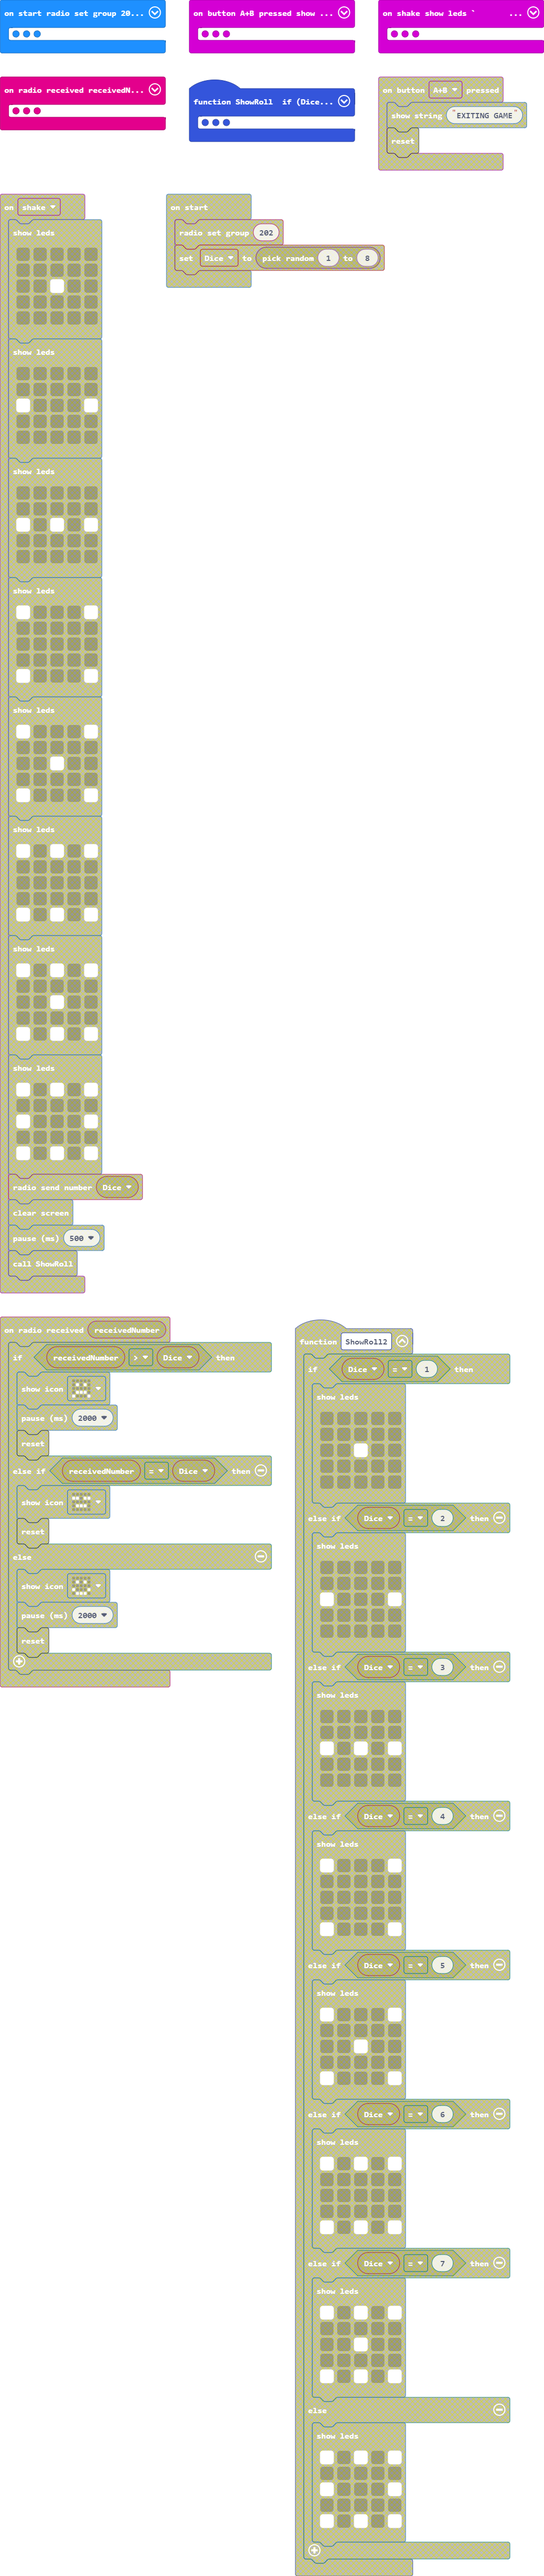
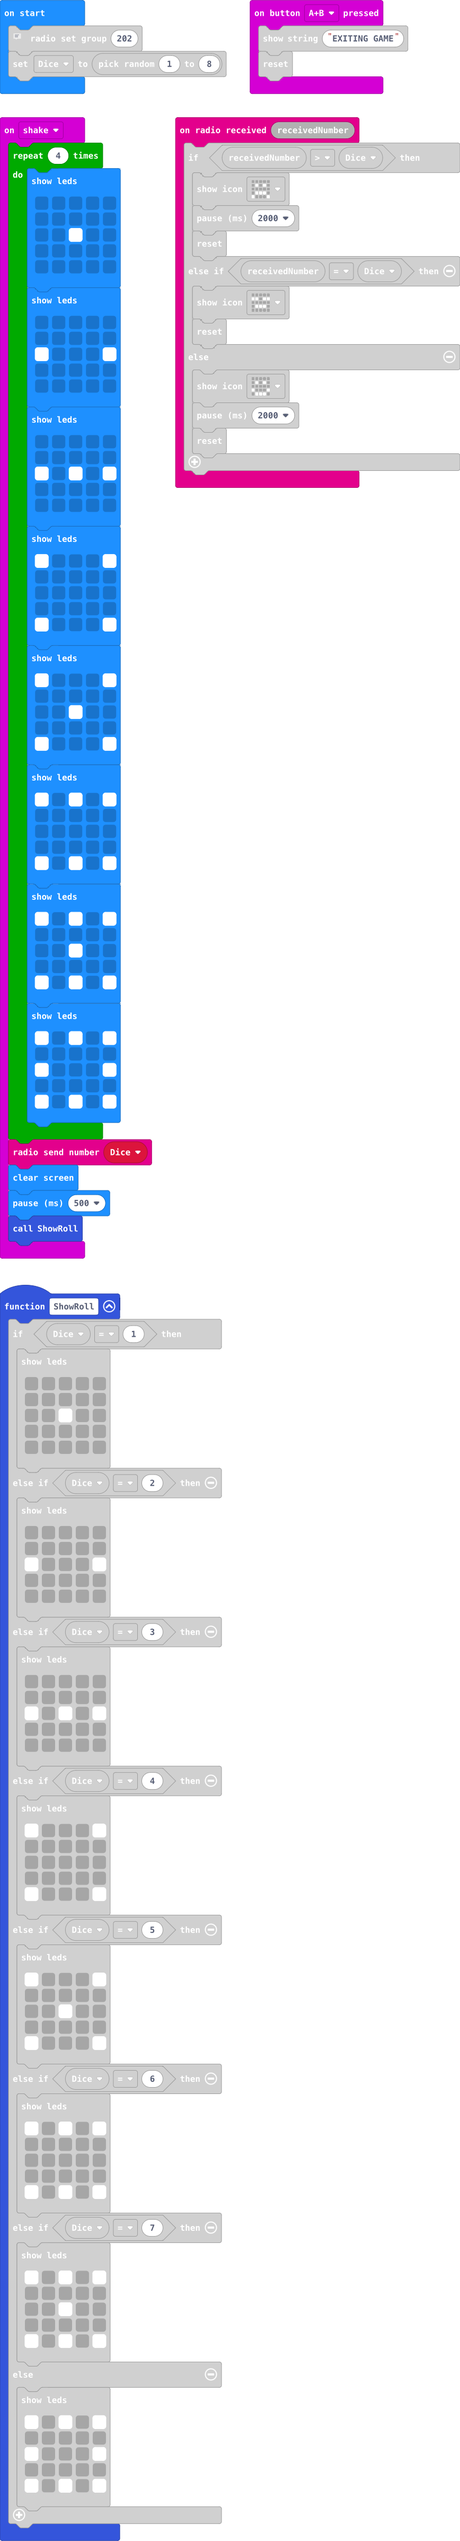
Rolling animation repeats 4 times

diff --git a/main.ts b/main.ts
@@ -1,69 +1,3 @@
-input.onButtonPressed(Button.AB, function () {
-    basic.showString("EXITING GAME")
-    control.reset()
-})
-input.onGesture(Gesture.Shake, function () {
-    basic.showLeds(`
-        . . . . .
-        . . . . .
-        . . # . .
-        . . . . .
-        . . . . .
-        `)
-    basic.showLeds(`
-        . . . . .
-        . . . . .
-        # . . . #
-        . . . . .
-        . . . . .
-        `)
-    basic.showLeds(`
-        . . . . .
-        . . . . .
-        # . # . #
-        . . . . .
-        . . . . .
-        `)
-    basic.showLeds(`
-        # . . . #
-        . . . . .
-        . . . . .
-        . . . . .
-        # . . . #
-        `)
-    basic.showLeds(`
-        # . . . #
-        . . . . .
-        . . # . .
-        . . . . .
-        # . . . #
-        `)
-    basic.showLeds(`
-        # . # . #
-        . . . . .
-        . . . . .
-        . . . . .
-        # . # . #
-        `)
-    basic.showLeds(`
-        # . # . #
-        . . . . .
-        . . # . .
-        . . . . .
-        # . # . #
-        `)
-    basic.showLeds(`
-        # . # . #
-        . . . . .
-        # . . . #
-        . . . . .
-        # . # . #
-        `)
-    radio.sendNumber(Dice)
-    basic.clearScreen()
-    basic.pause(500)
-    ShowRoll()
-})
 radio.onReceivedNumber(function (receivedNumber) {
     if (receivedNumber > Dice) {
         basic.showIcon(IconNames.Sad)
@@ -77,6 +11,74 @@ radio.onReceivedNumber(function (receivedNumber) {
         basic.pause(2000)
         control.reset()
     }
+})
+input.onButtonPressed(Button.AB, function () {
+    basic.showString("EXITING GAME")
+    control.reset()
+})
+input.onGesture(Gesture.Shake, function () {
+    for (let index = 0; index < 4; index++) {
+        basic.showLeds(`
+            . . . . .
+            . . . . .
+            . . # . .
+            . . . . .
+            . . . . .
+            `)
+        basic.showLeds(`
+            . . . . .
+            . . . . .
+            # . . . #
+            . . . . .
+            . . . . .
+            `)
+        basic.showLeds(`
+            . . . . .
+            . . . . .
+            # . # . #
+            . . . . .
+            . . . . .
+            `)
+        basic.showLeds(`
+            # . . . #
+            . . . . .
+            . . . . .
+            . . . . .
+            # . . . #
+            `)
+        basic.showLeds(`
+            # . . . #
+            . . . . .
+            . . # . .
+            . . . . .
+            # . . . #
+            `)
+        basic.showLeds(`
+            # . # . #
+            . . . . .
+            . . . . .
+            . . . . .
+            # . # . #
+            `)
+        basic.showLeds(`
+            # . # . #
+            . . . . .
+            . . # . .
+            . . . . .
+            # . # . #
+            `)
+        basic.showLeds(`
+            # . # . #
+            . . . . .
+            # . . . #
+            . . . . .
+            # . # . #
+            `)
+    }
+    radio.sendNumber(Dice)
+    basic.clearScreen()
+    basic.pause(500)
+    ShowRoll()
 })
 function ShowRoll () {
     if (Dice == 1) {
